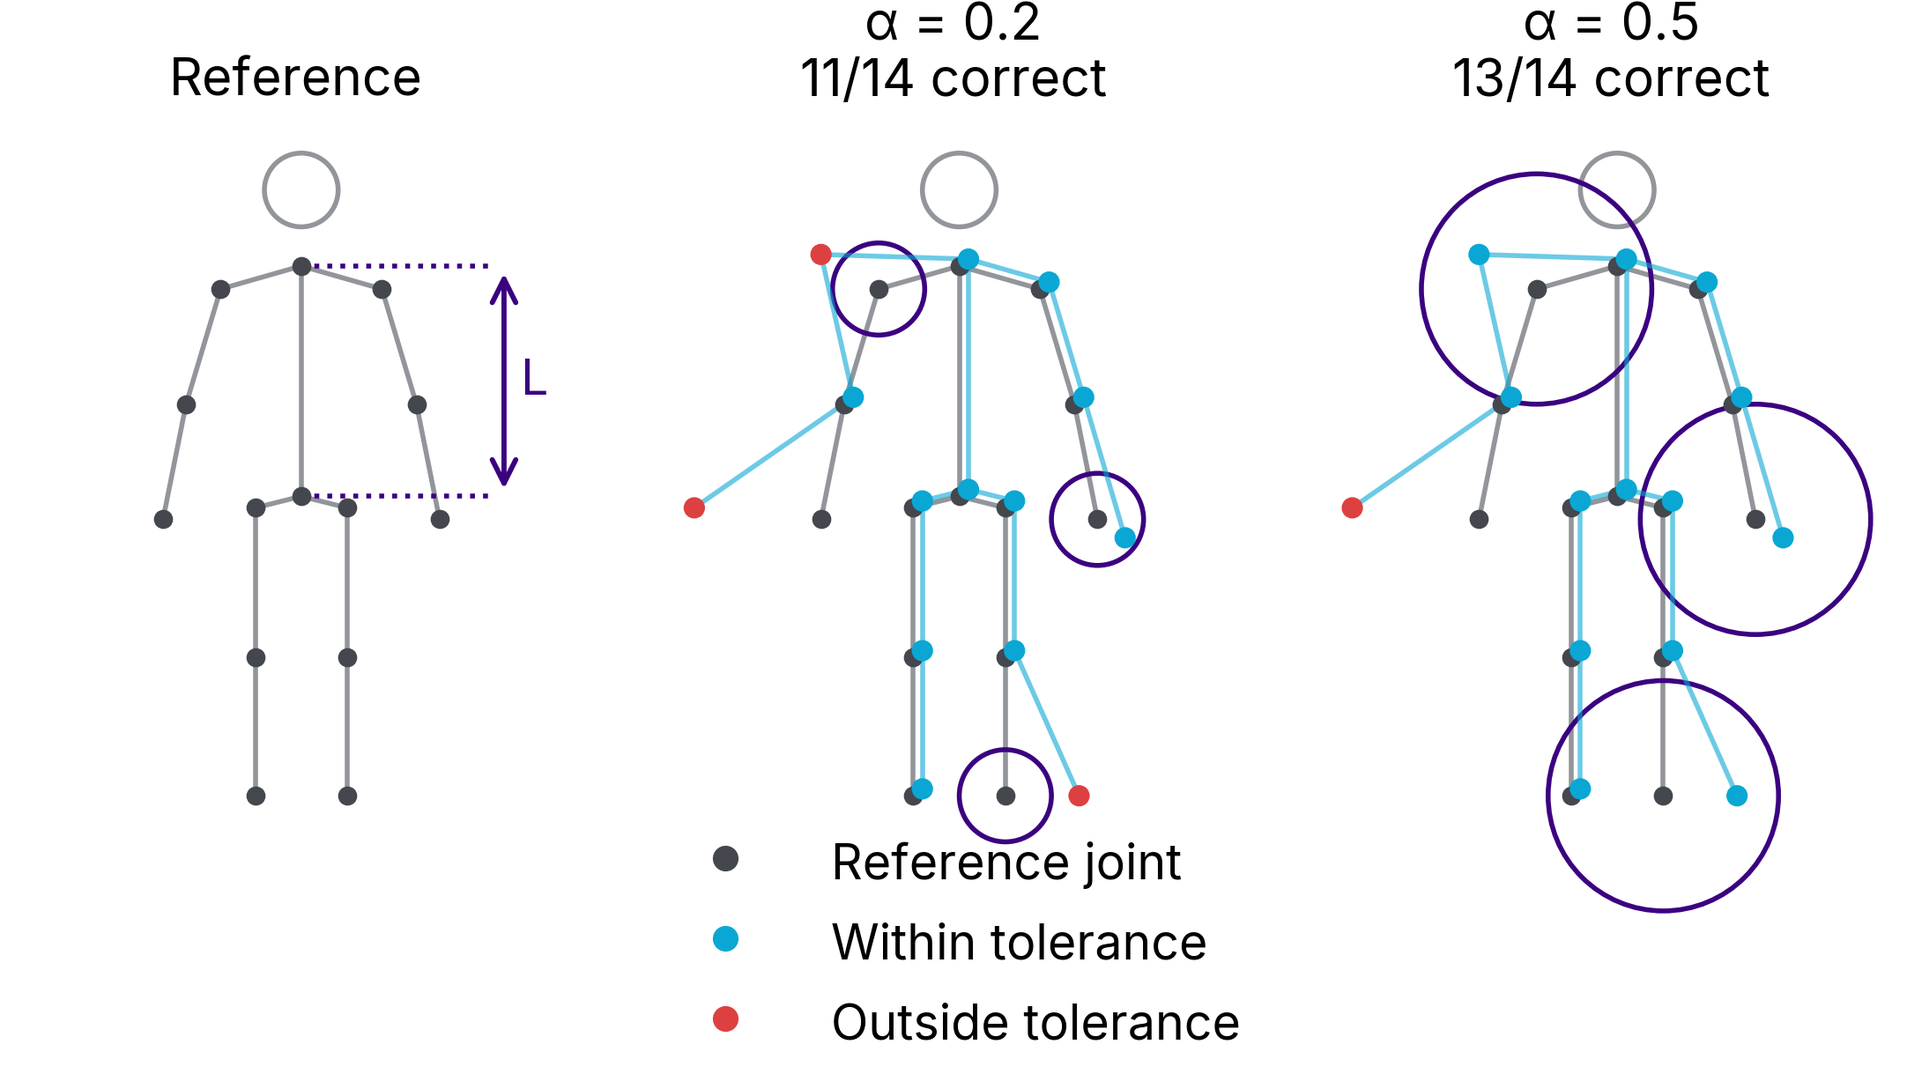
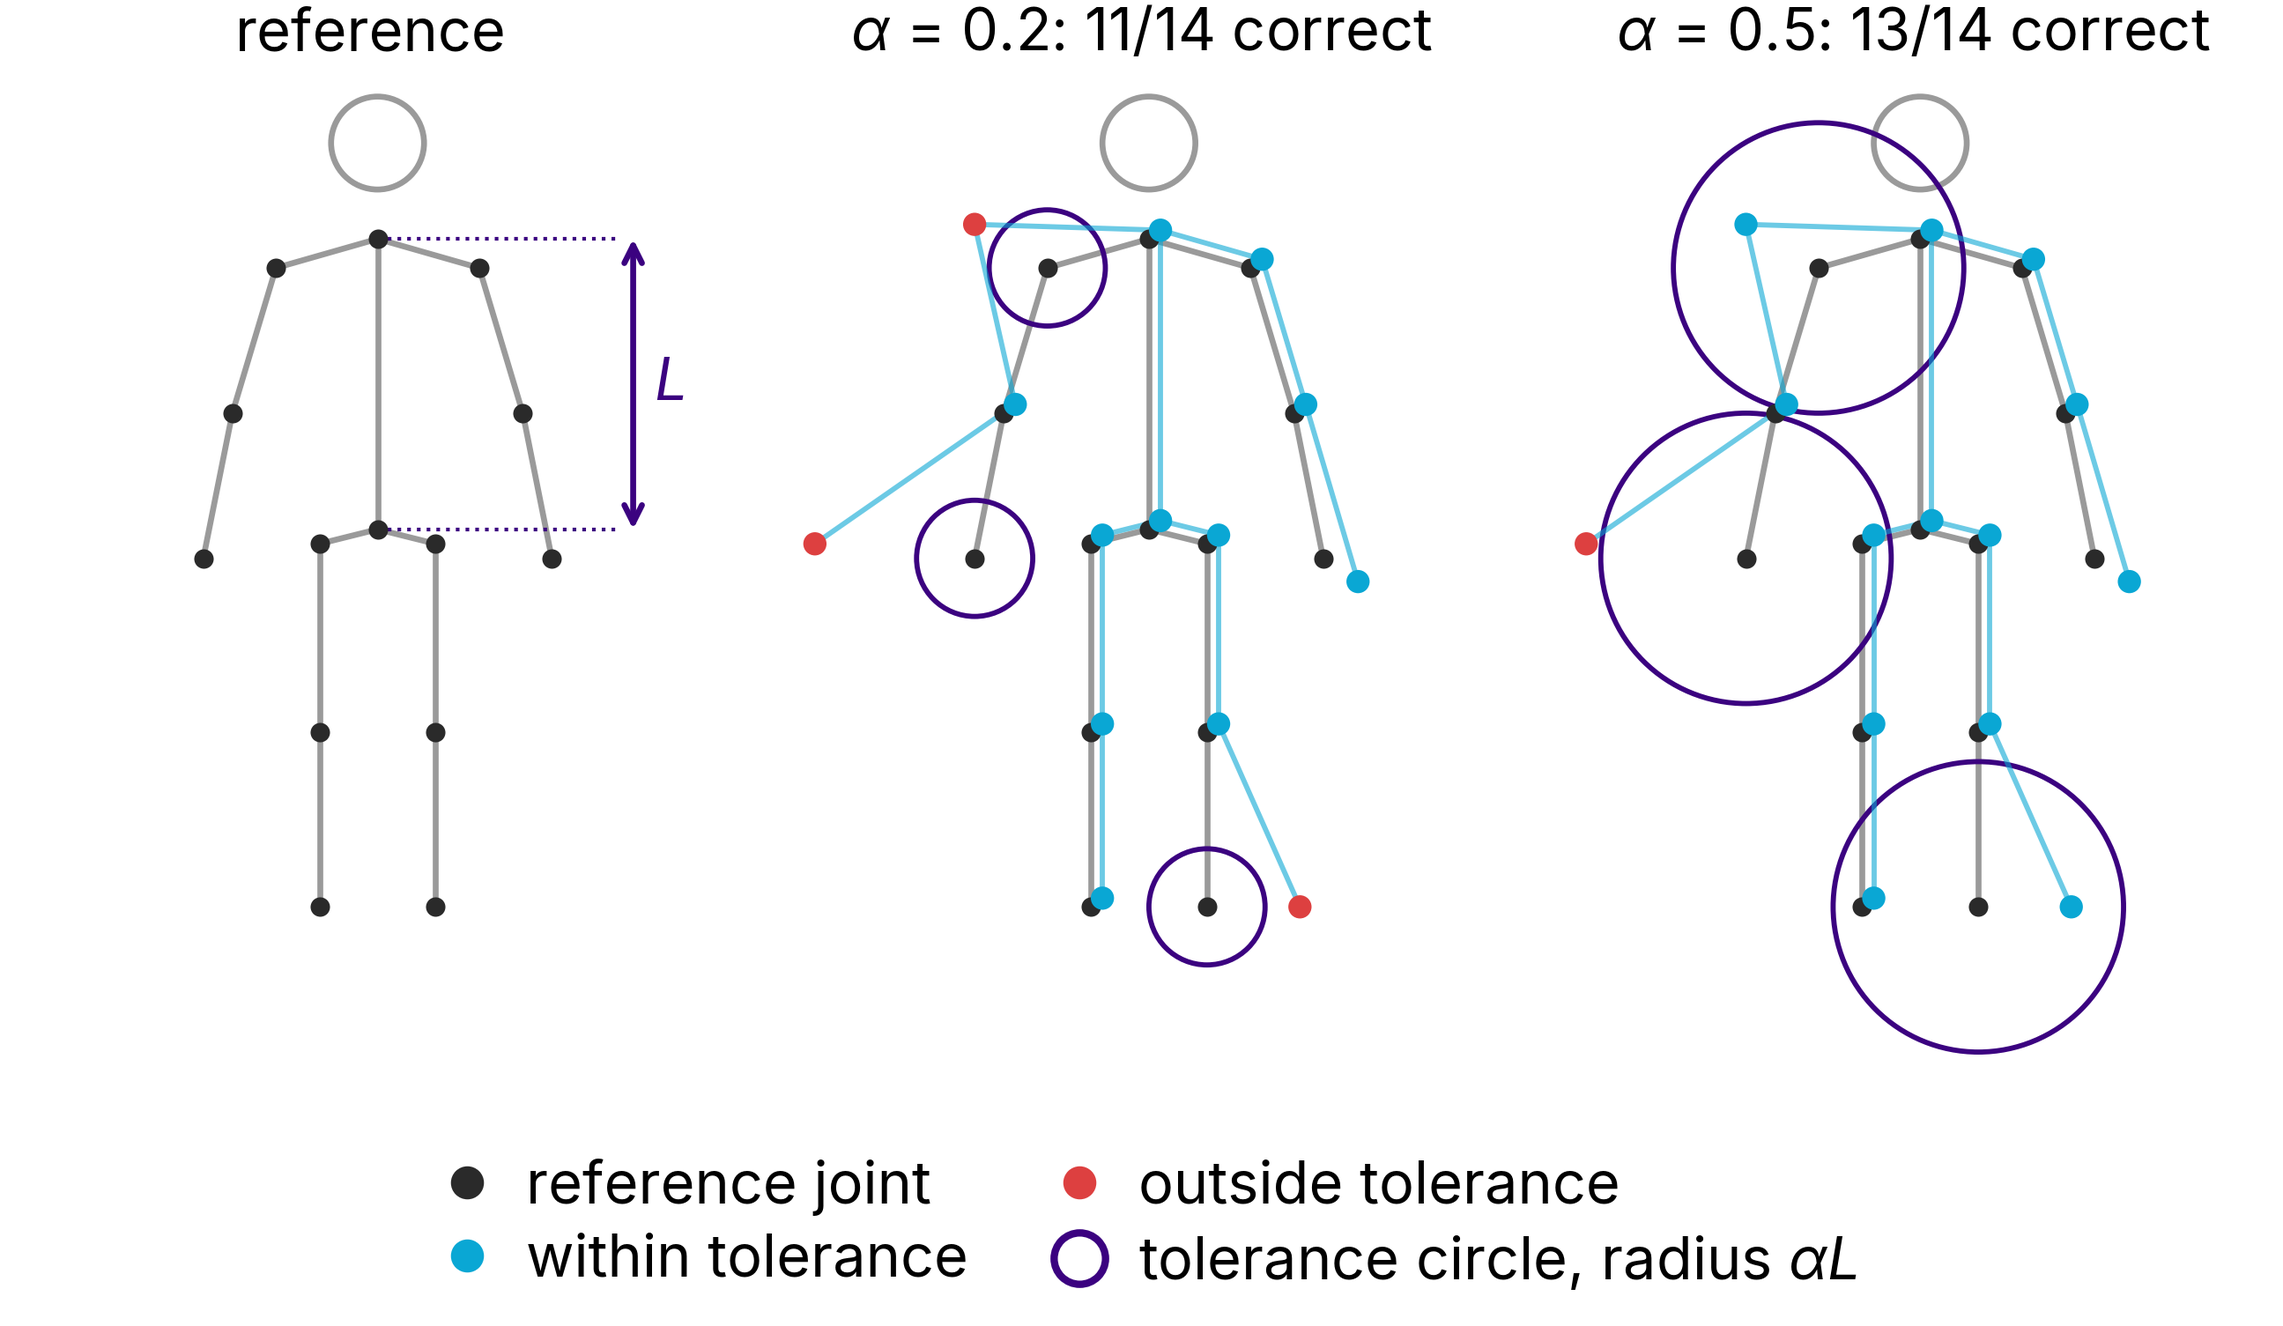
Redraw computer vision figures at print size

diff --git a/notebooks/cv_figures.py b/notebooks/cv_figures.py
@@ -1,0 +1,297 @@
+"""Figures for the Computer Vision chapter, drawn at printed size.
+
+Every displayed value is computed here, from the masks, images and keypoints
+drawn. Run: uv run python notebooks/cv_figures.py [NAME ...]
+"""
+import json
+import sys
+from pathlib import Path
+sys.path.insert(0, str(Path(__file__).resolve().parent))
+
+import numpy as np
+import matplotlib
+matplotlib.use('Agg')
+import matplotlib.colors as mcolors
+import cv2
+from matplotlib.lines import Line2D
+from matplotlib.patches import Circle, Patch
+from style import *  # noqa: F401,F403
+
+
+# ---------------------------------------------------------------------------
+def psnr(distorted, ref, L=255.0):
+    mse = np.mean((distorted.astype(np.float64) - ref.astype(np.float64)) ** 2)
+    return float('inf') if mse == 0 else 10.0 * np.log10(L * L / mse)
+
+
+def ssim(a, b, L=255.0):
+    """Wang et al. (2004) SSIM with an 11x11 Gaussian window (sigma 1.5)."""
+    a, b = a.astype(np.float64), b.astype(np.float64)
+    C1, C2 = (0.01 * L) ** 2, (0.03 * L) ** 2
+    blur = lambda x: cv2.GaussianBlur(x, (11, 11), 1.5)
+    mu_a, mu_b = blur(a), blur(b)
+    va = blur(a * a) - mu_a ** 2
+    vb = blur(b * b) - mu_b ** 2
+    vab = blur(a * b) - mu_a * mu_b
+    m = ((2 * mu_a * mu_b + C1) * (2 * vab + C2)) / ((mu_a ** 2 + mu_b ** 2 + C1) * (va + vb + C2))
+    return float(m.mean())
+
+
+def tune(make, lo, hi, ref, target=24.0, iters=44):
+    """Bisection on a distortion strength so that PSNR(make(strength)) ~= target."""
+    for _ in range(iters):
+        mid = 0.5 * (lo + hi)
+        if psnr(make(mid), ref) > target:
+            lo = mid
+        else:
+            hi = mid
+    return 0.5 * (lo + hi)
+
+
+def photo(gray=False, width=560):
+    """The DIV2K flower, cropped 3:2 to the flower head so detail shows in print."""
+    im = cv2.imread(str(FIGURES_DIR / 'DIV2K_0803.png'),
+                    cv2.IMREAD_GRAYSCALE if gray else cv2.IMREAD_COLOR)
+    im = im[560:1410, 380:1655]
+    im = cv2.resize(im, (width, int(round(im.shape[0] * width / im.shape[1]))), interpolation=cv2.INTER_AREA)
+    if not gray:
+        im = cv2.cvtColor(im, cv2.COLOR_BGR2RGB)
+    return im.astype(np.float64)
+
+
+def image_grid(height):
+    fig, axes = book_figure(1.0, height, 2, 2)
+    for ax in axes.flat:
+        bare_axes(ax)
+    return fig, axes.flat
+
+
+# ===========================================================================
+def pixel_accuracy():
+    names = ['background', 'class 1', 'class 2']
+    freq = np.array([0.85, 0.10, 0.05])
+    acc = np.array([0.98, 0.45, 0.20])
+    colors = ['#cfecef', NML_CYAN, NML_PURPLE]
+    pa, mpa = float(freq @ acc), float(acc.mean())
+    fig, ax = book_figure(1.0, 2.55)
+    edges = np.r_[0.0, np.cumsum(freq)]
+    for left, w, h, c in zip(edges[:-1], freq, acc, colors):
+        ax.bar(left, h, width=w, align='edge', color=c, edgecolor='white', linewidth=0.8)
+        if w < 0.08:
+            ax.text(left + w + 0.008, h / 2, f'{h:.0%}', ha='left', va='center', color=INK)
+        else:
+            ax.text(left + w / 2, h + 0.02, f'{h:.0%}', ha='center', va='bottom', color=INK)
+    ax.plot([0, 1], [pa, pa], color=NML_RED, lw=LW_THIN + 0.3)
+    ax.plot([0, 1], [mpa, mpa], color=NML_PURPLE, lw=LW_THIN + 0.3, ls=(0, (3, 2)))
+    ax.text(0.02, pa - 0.025, f'pixel accuracy = {num(100 * pa, 1)}%', va='top', color=NML_RED)
+    ax.text(0.02, mpa - 0.025, f'mean pixel accuracy = {num(100 * mpa, 1)}%', va='top', color=NML_PURPLE)
+    ax.set_xlim(0, 1.07)
+    ax.set_ylim(0, 1.08)
+    ax.set_yticks([0, 0.25, 0.5, 0.75, 1], labels=['0%', '25%', '50%', '75%', '100%'])
+    ax.set_xticks([])
+    ax.set_ylabel('pixels labeled correctly\nwithin each class')
+    ax.set_xlabel('share of all pixels (bar width)')
+    tidy_axes(ax, bottom=False)
+    fig.legend(handles=[Patch(color=c, label=f'{n}: {f:.0%} of pixels') for c, n, f in zip(colors, names, freq)],
+               loc='outside lower center', ncol=2, handlelength=1.0)
+    save_figure(fig, 'Pixel_Accuracy_imbalance')
+    plt.close(fig)
+    print(f'Pixel accuracy {pa:.4f} mean {mpa:.4f}')
+
+
+# ===========================================================================
+def pck():
+    truth = np.array([[0, 1.7], [-.35, 1.6], [.35, 1.6], [-.50, 1.1], [.50, 1.1],
+                      [-.60, .6], [.60, .6], [0, .7], [-.20, .65], [.20, .65],
+                      [-.20, 0], [.20, 0], [-.20, -.6], [.20, -.6]])
+    pred = truth + np.array([.04, .03])
+    pred[1] = truth[1] + [-.25, .15]
+    pred[5] = truth[5] + [-.55, .05]
+    pred[6] = truth[6] + [.12, -.08]
+    pred[13] = truth[13] + [.32, 0]
+    edges = [(0, 1), (0, 2), (1, 3), (2, 4), (3, 5), (4, 6), (0, 7), (7, 8), (7, 9), (8, 10),
+             (9, 11), (10, 12), (11, 13)]
+    L = float(np.linalg.norm(truth[0] - truth[7]))
+    dist = np.linalg.norm(pred - truth, axis=1)
+    circled = [1, 5, 13]          # the three joints that miss at alpha = 0.2
+    fig, axes = book_figure(1.0, 2.55, 1, 3)
+    counts = []
+    for i, ax in enumerate(axes):
+        for a, b in edges:
+            ax.plot(*truth[[a, b]].T, color=REF, lw=0.8, zorder=1)
+        ax.scatter(*truth.T, s=7, color=INK, zorder=3, linewidths=0)
+        ax.add_patch(Circle((0, 2.03), .16, fill=False, edgecolor=REF, lw=0.8))
+        if i == 0:
+            ax.annotate('', (.88, 1.7), (.88, .7), arrowprops=dict(arrowstyle='<->', color=NML_PURPLE,
+                        lw=LW_THIN + 0.1, shrinkA=0, shrinkB=0, mutation_scale=6))
+            for yy in (1.7, .7):
+                ax.plot([0, .84], [yy, yy], lw=0.5, color=NML_PURPLE, ls=':')
+            ax.text(.95, 1.2, '$L$', va='center', color=NML_PURPLE)
+            ax.set_title('reference', fontsize=TEXT_PT)
+        else:
+            alpha = [.2, .5][i - 1]
+            ok = dist <= alpha * L
+            counts.append(int(ok.sum()))
+            for a, b in edges:
+                ax.plot(*pred[[a, b]].T, color=NML_CYAN, lw=0.7, alpha=0.6, zorder=2)
+            ax.scatter(*pred.T, s=10, c=np.where(ok, NML_CYAN, NML_RED), zorder=4, linewidths=0)
+            for j in circled:
+                ax.add_patch(Circle(truth[j], alpha * L, fill=False, ec=NML_PURPLE, lw=0.7))
+            ax.set_title(f'$\\alpha$ = {alpha:.1f}: {ok.sum()}/{len(ok)} correct', fontsize=TEXT_PT)
+        ax.set(xlim=(-1.3, 1.25), ylim=(-1.2, 2.25), aspect='equal')
+        bare_axes(ax)
+    handles = [Line2D([], [], marker='o', ls='', ms=3.5, color=INK, label='reference joint'),
+               Line2D([], [], marker='o', ls='', ms=3.5, color=NML_CYAN, label='within tolerance'),
+               Line2D([], [], marker='o', ls='', ms=3.5, color=NML_RED, label='outside tolerance'),
+               Line2D([], [], marker='o', ls='', ms=7, mfc='none', mec=NML_PURPLE,
+                      label='tolerance circle, radius $\\alpha L$')]
+    fig.legend(handles=handles, loc='outside lower center', ncol=2, handletextpad=0.3)
+    assert L == 1 and counts == [11, 13], counts
+    save_figure(fig, 'PCK_threshold_visual')
+    plt.close(fig)
+    print('PCK distances', np.round(dist, 3).tolist(), counts)
+
+
+# ===========================================================================
+def oks():
+    d = np.linspace(0, 0.8, 500)
+    fig, ax = book_figure(0.82, 2.4)
+    thr = 0.30
+    ax.plot([0, thr, thr, 0.8], [1, 1, 0, 0], color=REF, lw=LW_THIN + 0.2, ls=(0, (3, 2)), zorder=2)
+    ax.text(thr + 0.012, 0.5, 'hypothetical\nPCK cutoff\nat 0.30', color=MUTED, va='center')
+    # COCO's per-keypoint constants k_i = 2 sigma_i
+    rows = [(0.05, NML_CYAN, 'eyes, $k$ = 0.05'), (0.158, NML_PURPLE, 'shoulders, $k$ = 0.158'),
+            (0.214, NML_RED, 'hips, $k$ = 0.214')]
+    for k, c, _ in rows:
+        ax.plot(d, np.exp(-d ** 2 / (2 * k ** 2)), color=c, zorder=3)
+    ax.legend(handles=[Line2D([], [], color=c, label=t) for _, c, t in rows], loc='upper right',
+              bbox_to_anchor=(1.0, 1.0))
+    ax.set_xlim(0, 0.8)
+    ax.set_ylim(0, 1.04)
+    ax.set_xticks([0, 0.2, 0.4, 0.6, 0.8], labels=[num(v, 1) for v in [0, 0.2, 0.4, 0.6, 0.8]])
+    unit_ticks(ax, 'y', 0.5)
+    ax.set_xlabel('normalized keypoint error $d/s$')
+    ax.set_ylabel('keypoint similarity')
+    tidy_axes(ax)
+    save_figure(fig, 'OKS_gaussian_falloff')
+    plt.close(fig)
+
+
+# ===========================================================================
+def psnr_figure():
+    rng = np.random.default_rng(42)
+    img = photo()
+    unit = rng.normal(0, 1, img.shape)
+    fig, axes = image_grid(3.1)
+    out = []
+    for ax, sg in zip(axes, [0, 12, 28, 60]):
+        noisy = np.clip(img + sg * unit, 0, 255) if sg else img
+        p = psnr(noisy, img)
+        ax.imshow(noisy.astype(np.uint8))
+        ax.set_title('original: PSNR = ∞' if sg == 0 else f'PSNR = {num(p, 1)} dB', fontsize=TEXT_PT)
+        if sg:
+            out.append((round(float(np.mean((noisy - img) ** 2)), 2), round(p, 3)))
+    save_figure(fig, 'PSNR_plot')
+    plt.close(fig)
+    print('PSNR (MSE, dB):', json.dumps(out))
+
+
+def ssim_figure():
+    rng = np.random.default_rng(7)
+    ref = photo(gray=True)
+    unit = rng.normal(0, 1, ref.shape)
+    makes = {'brightness shift': lambda c: np.clip(ref + c, 0, 255),
+             'blur': lambda s: cv2.GaussianBlur(ref, (0, 0), s),
+             'Gaussian noise': lambda s: np.clip(ref + s * unit, 0, 255)}
+    strengths = {'brightness shift': tune(makes['brightness shift'], 0, 120, ref),
+                 'blur': tune(makes['blur'], 0.3, 20, ref),
+                 'Gaussian noise': tune(makes['Gaussian noise'], 0, 120, ref)}
+    fig, axes = image_grid(3.35)
+    panels = [('original', ref)] + [(n, makes[n](strengths[n])) for n in makes]
+    out = {}
+    for ax, (name, im) in zip(axes, panels):
+        ax.imshow(im, cmap='gray', vmin=0, vmax=255)
+        if name == 'original':
+            title = 'original: PSNR = ∞, SSIM = 1.00'
+        else:
+            p, s = psnr(im, ref), ssim(im, ref)
+            out[name] = (round(p, 2), round(s, 4))
+            title = f'{name}\nPSNR = {p:.0f} dB, SSIM = {num(s)}'
+        ax.set_title(title, fontsize=TEXT_PT, linespacing=1.3)
+    save_figure(fig, 'SSIM_vs_PSNR')
+    plt.close(fig)
+    print('SSIM', out, {k: round(v, 3) for k, v in strengths.items()})
+
+
+# ===========================================================================
+def dice():
+    N = 500
+    yy, xx = np.mgrid[0:N, 0:N]
+    r, cy = 0.26 * N, N / 2
+    fig, axes = book_figure(1.0, 1.7, 1, 3)
+    span = int(r + 0.330 * N / 2) + 5            # half-width of the widest pair
+    box = (slice(int(cy - r) - 5, int(cy + r) + 6), slice(int(cy) - span, int(cy) + span + 1))
+    for ax, off_frac, name in zip(axes, [0.060, 0.185, 0.330], ['high', 'moderate', 'low']):
+        off = off_frac * N
+        pred = (xx - (cy - off / 2)) ** 2 + (yy - cy) ** 2 <= r ** 2
+        gt = (xx - (cy + off / 2)) ** 2 + (yy - cy) ** 2 <= r ** 2
+        inter = gt & pred
+        d = 2 * inter.sum() / (gt.sum() + pred.sum())
+        iou = inter.sum() / (gt | pred).sum()
+        disp = np.ones((N, N, 3))
+        disp[pred & ~gt] = mcolors.to_rgb(PRED_ONLY)
+        disp[gt & ~pred] = mcolors.to_rgb(TRUTH_ONLY)
+        disp[inter] = mcolors.to_rgb(OVERLAP)
+        disp = disp[box]
+        ax.imshow(disp, interpolation='nearest')
+        ax.set_title(f'{name} overlap\nDice = {num(d)}, IoU = {num(iou)}', fontsize=TEXT_PT, linespacing=1.3)
+        bare_axes(ax)
+        print(f'Dice {name}: Dice {d:.4f} IoU {iou:.4f}')
+    handles = [Patch(color=OVERLAP, label='overlap (true positives)'),
+               Patch(color=PRED_ONLY, label='prediction only (false positives)'),
+               Patch(color=TRUTH_ONLY, label='ground truth only (false negatives)')]
+    fig.legend(handles=handles, loc='outside lower center', ncol=2, handlelength=1.0)
+    save_figure(fig, 'Dice_overlap_examples')
+    plt.close(fig)
+
+
+# ===========================================================================
+def pq():
+    fig, ax = book_figure(0.82, 2.75)
+    g = np.linspace(0.002, 1, 500)
+    RQ, SQ = np.meshgrid(g, np.linspace(0.5, 1, 300))
+    levels = [0.2, 0.4, 0.6, 0.8]
+    cs = ax.contour(RQ, SQ, RQ * SQ, levels=levels, colors=[REF], linewidths=LW_THIN)
+    for v in levels:
+        ax.text(v, 1.012, f'PQ = {v:g}', ha='center', va='bottom', color=MUTED, fontsize=SMALL_PT)
+    models = [('A', 'good all round', 0.90, 0.85, (-6, 0), 'right'),
+              ('B', 'good masks, missed objects', 0.50, 0.90, (6, 0), 'left'),
+              ('C', 'found objects, rough masks', 0.85, 0.55, (-6, 0), 'right')]
+    lines = []
+    for letter, desc, rq, sq, off, ha in models:
+        ax.scatter(rq, sq, s=26, color=NML_PURPLE, edgecolors='white', linewidths=0.8, zorder=5)
+        ax.annotate(letter, (rq, sq), xytext=off, textcoords='offset points', ha=ha, va='center',
+                    color=INK, fontweight='semibold', zorder=6,
+                    bbox=dict(facecolor='white', edgecolor='none', pad=0.5))
+        lines.append(f'{letter}: {desc}, PQ = {num(rq * sq)}')
+    ax.set_xlim(0, 1)
+    ax.set_ylim(0.5, 1)
+    unit_ticks(ax, 'x', 0.5)
+    ax.set_yticks([0.5, 0.75, 1.0], labels=['0.50', '0.75', '1.00'])
+    ax.set_xlabel('recognition quality (RQ)')
+    ax.set_ylabel('segmentation quality (SQ)')
+    tidy_axes(ax)
+    fig.supxlabel('\n'.join(lines), fontsize=TEXT_PT, ha='left', x=0.02, linespacing=1.35)
+    save_figure(fig, 'PQ_decomposition')
+    plt.close(fig)
+
+
+FIGURES = {'Pixel_Accuracy_imbalance': pixel_accuracy, 'PCK_threshold_visual': pck,
+           'OKS_gaussian_falloff': oks, 'PSNR_plot': psnr_figure, 'Dice_overlap_examples': dice,
+           'PQ_decomposition': pq, 'SSIM_vs_PSNR': ssim_figure}
+
+if __name__ == '__main__':
+    wanted = set(sys.argv[1:])
+    for name, make in FIGURES.items():
+        if not wanted or name in wanted:
+            make()

diff --git a/book/6-computer-vision.tex b/book/6-computer-vision.tex
@@ -132,7 +132,7 @@ Use PCK for pose estimation or landmark detection when a distance tolerance capt
     \includegraphics[width=\textwidth]{figures/PCK_threshold_visual.png}
 \end{metricfigure}
 
-\metriccaption{Figure. PCK.}{The same $14$ constructed predictions are evaluated at two tolerances. Here $L$ is the neck-to-pelvis length, and each purple circle has radius $\alpha L$; circles are shown for three joints. Increasing $\alpha$ from $0.2$ to $0.5$ changes the count from $11$ to $13$ correct. The coordinates and circles share the same scale.}
+\metriccaption{Figure. PCK.}{The same $14$ constructed predictions are evaluated at two tolerances. Here $L$ is the neck-to-pelvis length, and each purple circle has radius $\alpha L$, drawn around the three joints that miss at $\alpha = 0.2$. Increasing $\alpha$ to $0.5$ brings two of them inside their circles, changing the count from $11$ to $13$ correct; the left wrist still misses. The coordinates and circles share the same scale.}
 
 For a benchmark, use its specified tolerance. For a new application, choose a tolerance that reflects the precision you need, and report how the reference length is measured.
 
@@ -192,7 +192,7 @@ Use OKS for COCO-style pose evaluation, where both object size and annotation un
     \includegraphics[width=.82\textwidth]{figures/OKS_gaussian_falloff.png}
 \end{metricfigure}
 
-\metriccaption{Figure. OKS.}{Larger values of $k$ let the score fall more slowly as the error grows. The three curves illustrate this effect; their body-part labels do not reproduce COCO's exact tolerances. In the formula shown here, COCO uses $k = 0.05$ for eyes, $0.158$ for shoulders and $0.214$ for hips. The gray step illustrates a hard cutoff using the same normalized distance.}
+\metriccaption{Figure. OKS.}{Larger values of $k$ let the score fall more slowly as the error grows. The three curves use COCO's values in the formula shown here: $k = 0.05$ for eyes, $0.158$ for shoulders and $0.214$ for hips. The gray step is a hypothetical PCK-style cutoff on the same normalized distance: full credit up to $0.30$, none beyond.}
 
 \orangebox{Did you know that...}
 {COCO's headline keypoint score is Average Precision, not the mean OKS of all poses. It uses OKS thresholds from $0.50$ to $0.95$ to decide whether a predicted pose matches a person, then averages the resulting AP values. A model must therefore locate joints well and find the people in the image.}
@@ -406,7 +406,7 @@ Use PQ for panoptic segmentation, where every pixel needs a class label and indi
     \includegraphics[width=.82\textwidth]{figures/PQ_decomposition.png}
 \end{metricfigure}
 
-\metriccaption{Figure. PQ.}{For one class, multiplying SQ by RQ gives PQ. B and C have different component scores but similar PQ ($0.45$ and about $0.47$). RQ alone does not reveal whether a region was missed or failed the class or overlap test. Point D is not valid under the usual matching rule: whenever matches exist, their average IoU, SQ, must be strictly above $0.5$.}
+\metriccaption{Figure. PQ.}{For one class, multiplying SQ by RQ gives PQ; the curves join equal PQ values. B and C have different component scores but similar PQ ($0.45$ and about $0.47$). RQ alone does not reveal whether a region was missed or failed the class or overlap test. The vertical axis starts at $0.5$: whenever matches exist, SQ averages IoUs that are strictly above $0.5$.}
 
 \orangebox{Did you know that...}
 {The IoU $> 0.5$ rule makes matching unique because panoptic regions do not overlap within either segmentation. No predicted region can match two ground-truth regions, or vice versa. Kirillov and colleagues used this property to avoid a separate assignment algorithm when they introduced PQ.}
@@ -470,7 +470,7 @@ Use SSIM alongside PSNR and visual inspection for compression or image restorati
     \includegraphics[width=\textwidth]{figures/SSIM_vs_PSNR.png}
 \end{metricfigure}
 
-\metriccaption{Figure. SSIM.}{Three distortions of the same grayscale image, each tuned to PSNR $24$ dB. Here SSIM scores the brightness shift at $0.99$, blur at $0.76$ and noise at $0.55$, using $11 \times 11$ Gaussian-weighted windows. These results show how equal pixel error can produce different local similarities; they do not establish a universal ordering of blur and noise, or a human quality rating.}
+\metriccaption{Figure. SSIM.}{Three distortions of the same grayscale image, each tuned to PSNR $24$ dB. Here SSIM scores the brightness shift at $0.99$, blur at $0.69$ and noise at $0.43$, using $11 \times 11$ Gaussian-weighted windows. These results show how equal pixel error can produce different local similarities; they do not establish a universal ordering of blur and noise, or a human quality rating.}
 
 \orangebox{Did you know that...}
 {SSIM reached beyond research papers. In $2015$, the Television Academy awarded a Primetime Engineering Emmy to Zhou Wang, Alan Bovik, Hamid Sheikh and Eero Simoncelli for developing it. The award recognized its use in assessing video quality across the television industry.}
